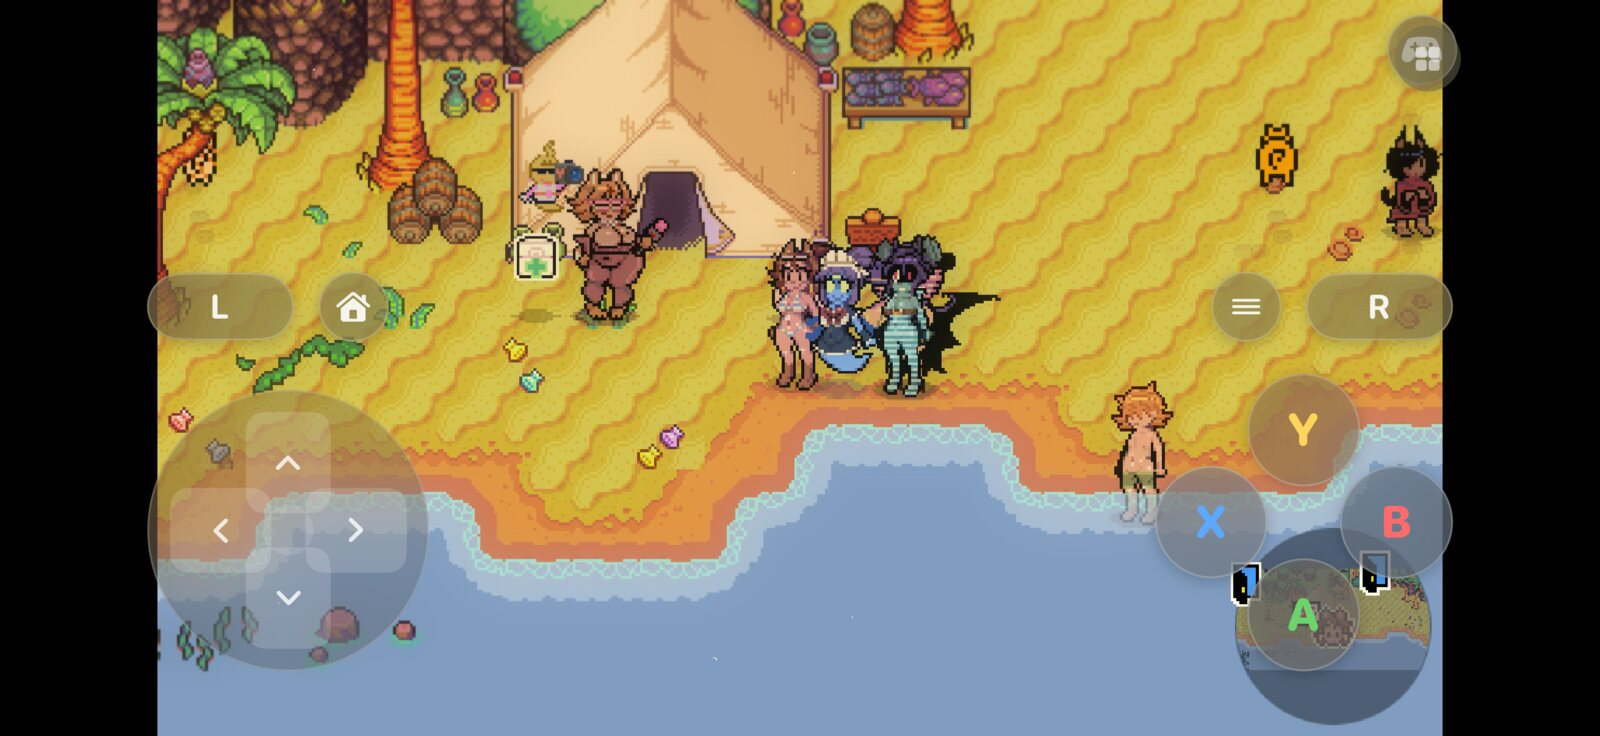
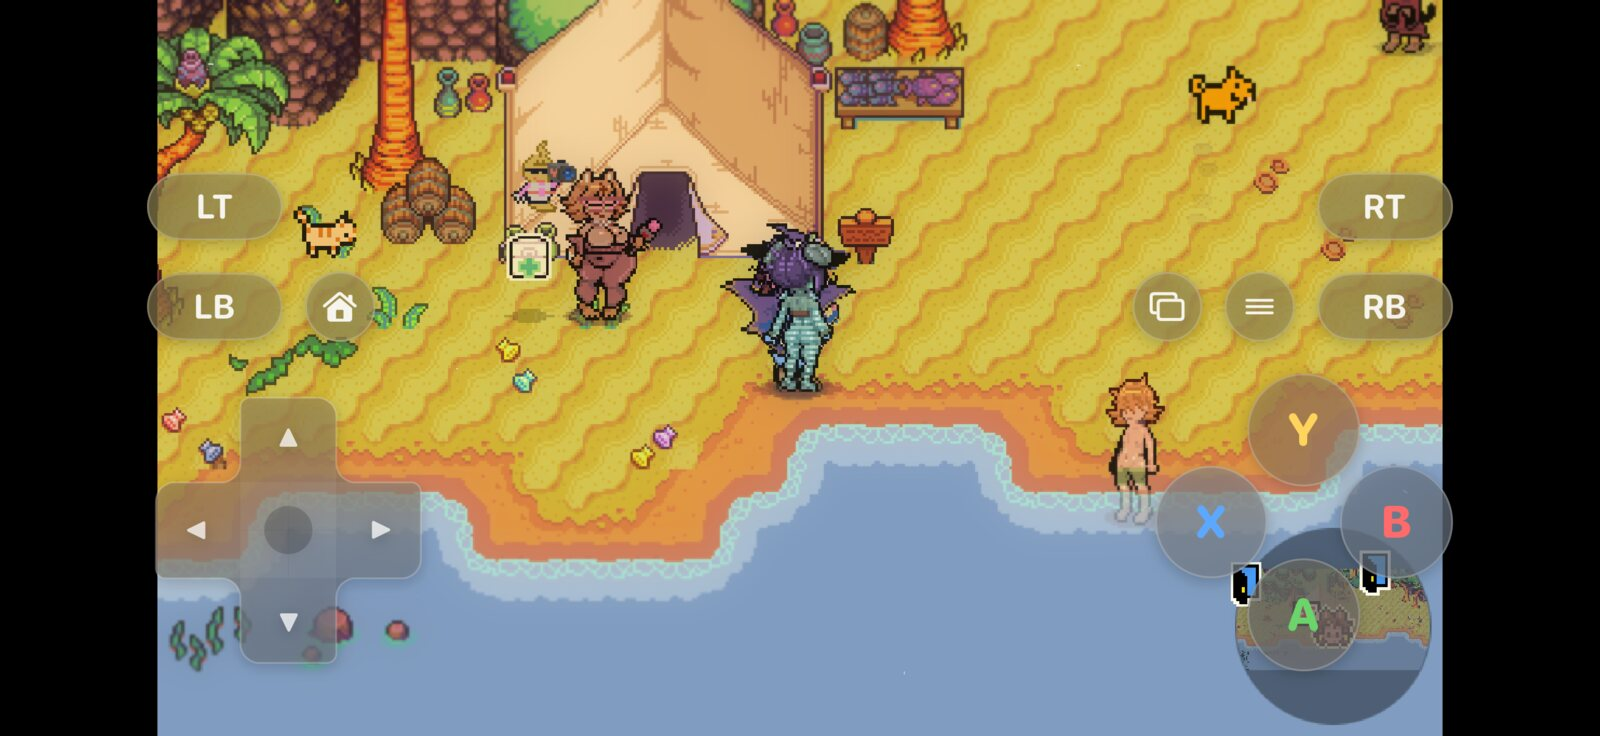
Retake the README touch controls screenshot with the current overlay

Changed region(s): [[0.0938, 0.0, 0.9375, 0.9062], [0.8125, 0.625, 0.8438, 0.7188], [0.8438, 0.5625, 0.9062, 0.5938]]

diff --git a/README.md b/README.md
@@ -94,7 +94,7 @@ Each game has its own button mapping. The VNDegen menu's Controls section and th
 A controller's Home button, the touch gamepad's house button, the small menu button in the corner, and the backtick always open the VNDegen menu, so a mapping cannot lock you out. Remaps saved by earlier versions, which sent actions such as Confirm, convert on first launch to what those actions sent in the game's engine, so remapped games play the same: the Return key in RPG Maker, the matching Xbox button in Ren'Py, and the same TyranoScript action in TyranoScript.
 
 <p align="center">
-  <img src="docs/screenshots/touch-controls.jpg" width="560" alt="On-screen gamepad overlay with a D-pad, A B X Y buttons, shoulder buttons, and menu buttons over No Socks RPG gameplay, with the party on the beach map">
+  <img src="docs/screenshots/touch-controls.jpg" width="560" alt="On-screen gamepad overlay with a cross D-pad, Xbox A B X Y buttons, LB RB LT RT shoulder buttons, a home button, and View and Menu buttons over No Socks RPG gameplay, with the player on the beach map">
   <img src="docs/screenshots/unlock.jpg" width="200" alt="Passcode keypad for unlocking hidden games, with a controller focus ring on one key">
 </p>
 
